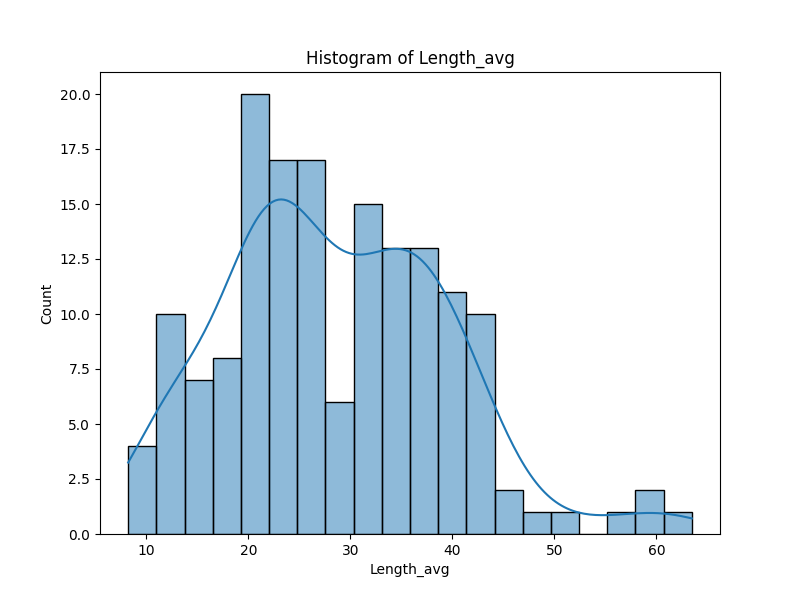
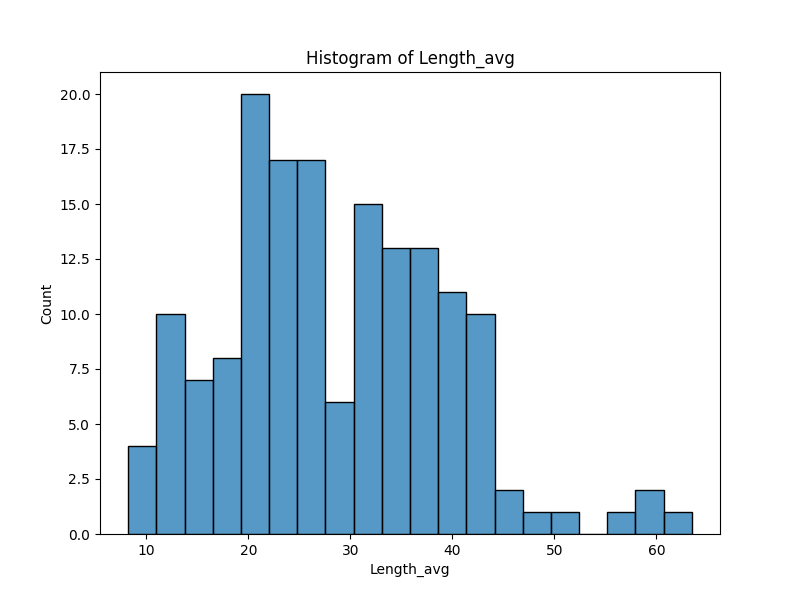
l

Changed region(s): [[0.1562, 0.15, 0.875, 0.9]]

diff --git a/Q2_fish/task1 and task2/data_preprocessing.py b/Q2_fish/task1 and task2/data_preprocessing.py
@@ -67,7 +67,7 @@ def perform_eda(df, log_transformed=False):
     
     for col in plot_features:
         plt.figure(figsize=(8,6))
-        sns.histplot(df[col], kde=True, bins=20)
+        sns.histplot(df[col], kde=False, bins=20)
         plt.title(f'Histogram of {col}')
         plt.savefig(f'{folder}/hist_{col}.png')
         plt.close()
